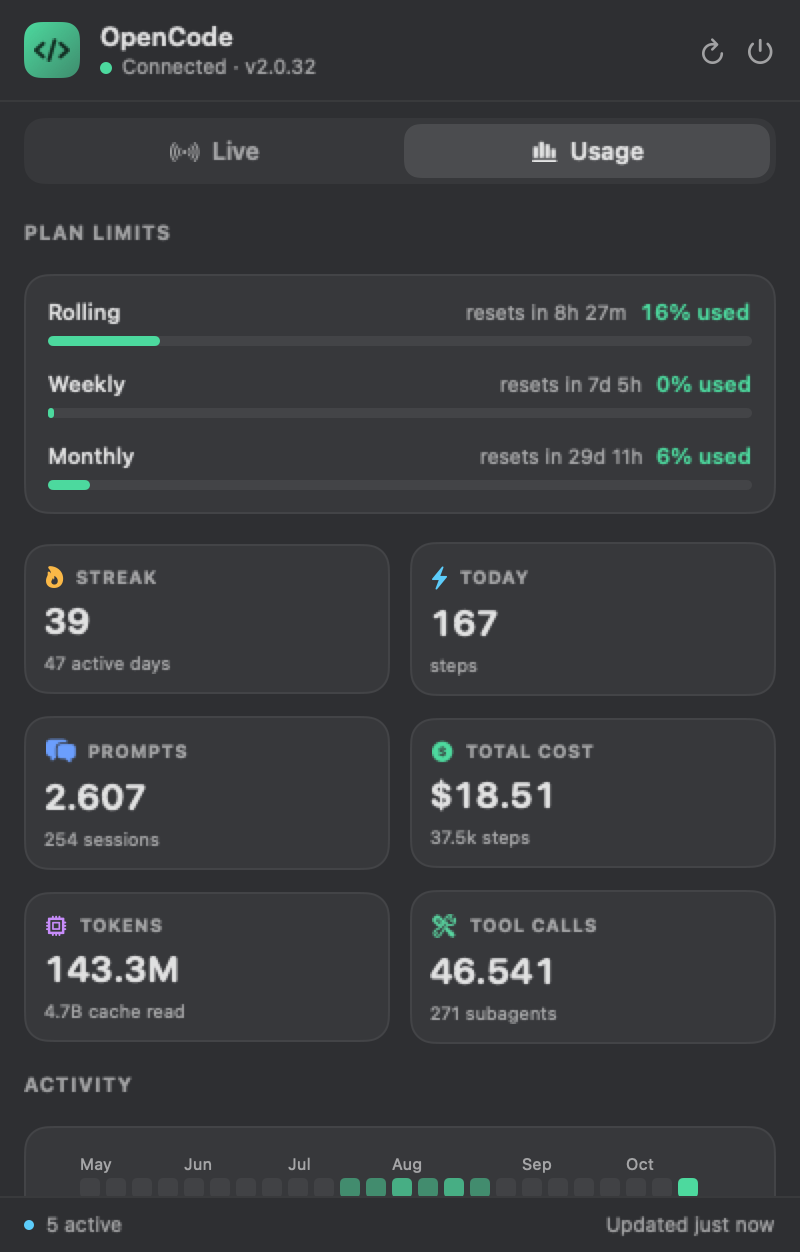
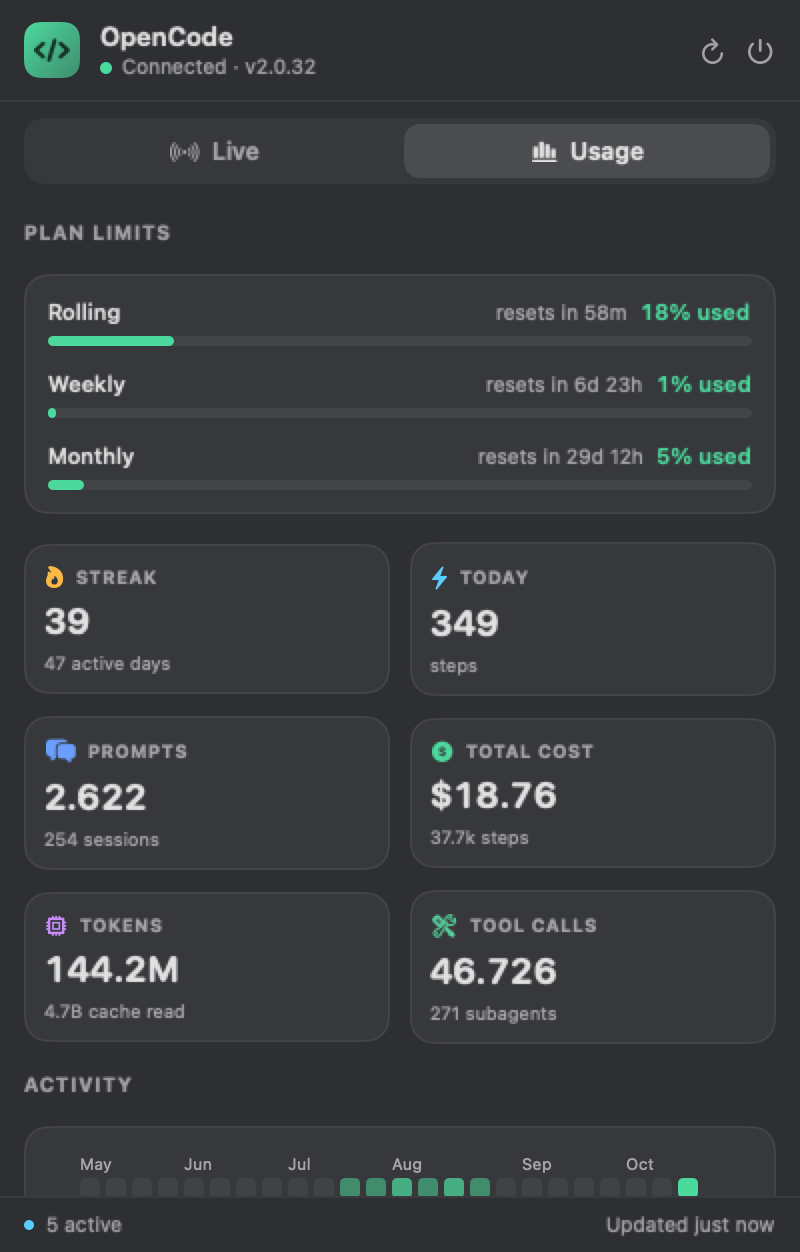
Add a dedicated key for Go usage lookups
- Resolve the usage key from OPENCODE_GO_USAGE_KEY, OPENCODE_API_KEY,
  goUsageKey in opencodebar.json, then auth.json.
- Lets a read-only or service-account key back the Usage tab without
  replacing the credential OpenCode uses for inference.
- Document the resolution order and capture the Usage screenshot from
  the live endpoint.

diff --git a/Sources/OpenCodeBar/Core/GoUsageClient.swift b/Sources/OpenCodeBar/Core/GoUsageClient.swift
@@ -76,13 +76,17 @@ enum GoUsageClient {
         return URL(string: "https://opencode.ai/zen/go/v1/usage")!
     }()
 
-    /// The Go API key, in order of precedence: `OPENCODE_API_KEY`, then the
-    /// `opencode-go` entry in `auth.json` (`opencode` is accepted as a
-    /// fallback for setups that store the key under the generic provider).
+    /// The Go usage key, in order of precedence: `OPENCODE_GO_USAGE_KEY`,
+    /// `OPENCODE_API_KEY`, the app's own `opencodebar.json` (`goUsageKey`),
+    /// then the `opencode-go` entry in `auth.json` (`opencode` is accepted as
+    /// a fallback for setups that store the key under the generic provider).
     static func apiKey() -> String? {
-        if let env = ProcessInfo.processInfo.environment["OPENCODE_API_KEY"], !env.isEmpty {
-            return env
+        for name in ["OPENCODE_GO_USAGE_KEY", "OPENCODE_API_KEY"] {
+            if let value = ProcessInfo.processInfo.environment[name], !value.isEmpty {
+                return value
+            }
         }
+        if let key = appConfigKey() { return key }
         let auth = ServiceDiscovery.dataDir().appendingPathComponent("auth.json")
         guard let data = try? Data(contentsOf: auth),
               let root = try? JSONSerialization.jsonObject(with: data) as? [String: Any]
@@ -95,6 +99,21 @@ enum GoUsageClient {
             }
         }
         return nil
+    }
+
+    /// `<config>/opencode/opencodebar.json`, e.g. `{ "goUsageKey": "oc_sk_…" }`.
+    ///
+    /// Kept separate from `auth.json` so a read-only or service-account key can
+    /// be used for usage without replacing the credential OpenCode uses for
+    /// inference.
+    private static func appConfigKey() -> String? {
+        let url = ServiceDiscovery.configDir().appendingPathComponent("opencodebar.json")
+        guard let data = try? Data(contentsOf: url),
+              let root = try? JSONSerialization.jsonObject(with: data) as? [String: Any],
+              let key = root["goUsageKey"] as? String,
+              !key.isEmpty
+        else { return nil }
+        return key
     }
 
     static func fetch(key: String) async throws -> GoUsage {

diff --git a/NOTES.md b/NOTES.md
@@ -45,16 +45,21 @@ observations. Last updated 2026-10-19.
 
 ## Environment observations
 
-- **The stored Go key is expired.** `~/.local/share/opencode/auth.json` holds an
-  `opencode-go` key that the usage endpoint rejects with
-  `401 {"code":"api_key_expired"}`. Inference may still work through a different
-  credential path, but the Usage tab will show "Go API key expired" until a new
-  key is created in Console. This is why `docs/screenshots/usage.png` was
-  regenerated against a local fixture rather than the live endpoint.
-- **`OPENCODE_GO_USAGE_URL`** overrides the usage endpoint and
-  **`OPENCODE_API_KEY`** overrides the Go key; both exist to exercise the Plan
-  limits UI without a live subscription. `make shots` will otherwise capture a
-  real failure notice.
+- **The Go inference key in `auth.json` is expired.** `~/.local/share/opencode/auth.json`
+  holds an `opencode-go` key that the usage endpoint rejects with
+  `401 {"code":"api_key_expired"}`. Replacing it means running
+  `opencode auth login` and would change the credential OpenCode uses for
+  inference, so OpenCodeBar no longer depends on it. The Usage tab reads a
+  **console service-account key** (`oc_sk_…`, *Inference only*) from
+  `~/.config/opencode/opencodebar.json` instead. Create one in Console →
+  **Keys** → *Add Service Account* → *Add API Key*; it works against
+  `/zen/go/v1/usage` and returns the same windows the console page shows.
+  Service-account keys are shown once, so store them immediately.
+- **`OPENCODE_GO_USAGE_URL`** overrides the usage endpoint,
+  **`OPENCODE_GO_USAGE_KEY`** / **`OPENCODE_API_KEY`** override the key, and
+  `~/.config/opencode/opencodebar.json` (`{"goUsageKey": "…"}`) provides one
+  that survives GUI launches. `docs/screenshots/usage.png` is now captured
+  from the live endpoint.
 - **`~/.local/share/opencode/opencode.db` is unusually large (~3.7 GB,
   3,765,533,624 bytes).** OpenCodeBar does not read it — it uses the HTTP API
   only — but the size is worth investigating separately (candidates: `VACUUM`,

diff --git a/README.md b/README.md
@@ -53,8 +53,16 @@ Endpoints used: `/api/info`, `/api/session`, `/api/session/active`,
 `/api/experimental/session/stats`, and `/api/event`.
 
 For Go plan limits the app additionally calls the console's usage endpoint,
-`https://opencode.ai/zen/go/v1/usage`, with the Go API key from `auth.json`
-(or `$OPENCODE_API_KEY`). That data is not part of the local service API.
+`https://opencode.ai/zen/go/v1/usage`. That data is not part of the local
+service API, and the key is resolved in this order:
+
+1. `$OPENCODE_GO_USAGE_KEY`
+2. `$OPENCODE_API_KEY`
+3. `goUsageKey` in `~/.config/opencode/opencodebar.json`
+4. the `opencode-go` (then `opencode`) key in `~/.local/share/opencode/auth.json`
+
+Step 3 exists so a read-only or service-account key can be used for usage
+without replacing the credential OpenCode uses for inference.
 
 ## Requirements
 
@@ -130,7 +138,10 @@ Scripts/
 - The menu bar glyph uses SF Symbols (`terminal` / `terminal.fill`).
 - `OPENCODE_GO_USAGE_URL` points the Go limits client at a different URL, which
   is how the Plan limits UI is exercised without a live Go key.
-- `OPENCODE_API_KEY` overrides the Go API key read from `auth.json`.
+- `OPENCODE_API_KEY` overrides the Go API key read from `auth.json`, and
+  `OPENCODE_GO_USAGE_KEY` overrides both. GUI-launched builds may not inherit
+  a shell environment, so `~/.config/opencode/opencodebar.json` is usually the
+  more reliable place to keep a usage-only key.
 
 ## Limitations
 
